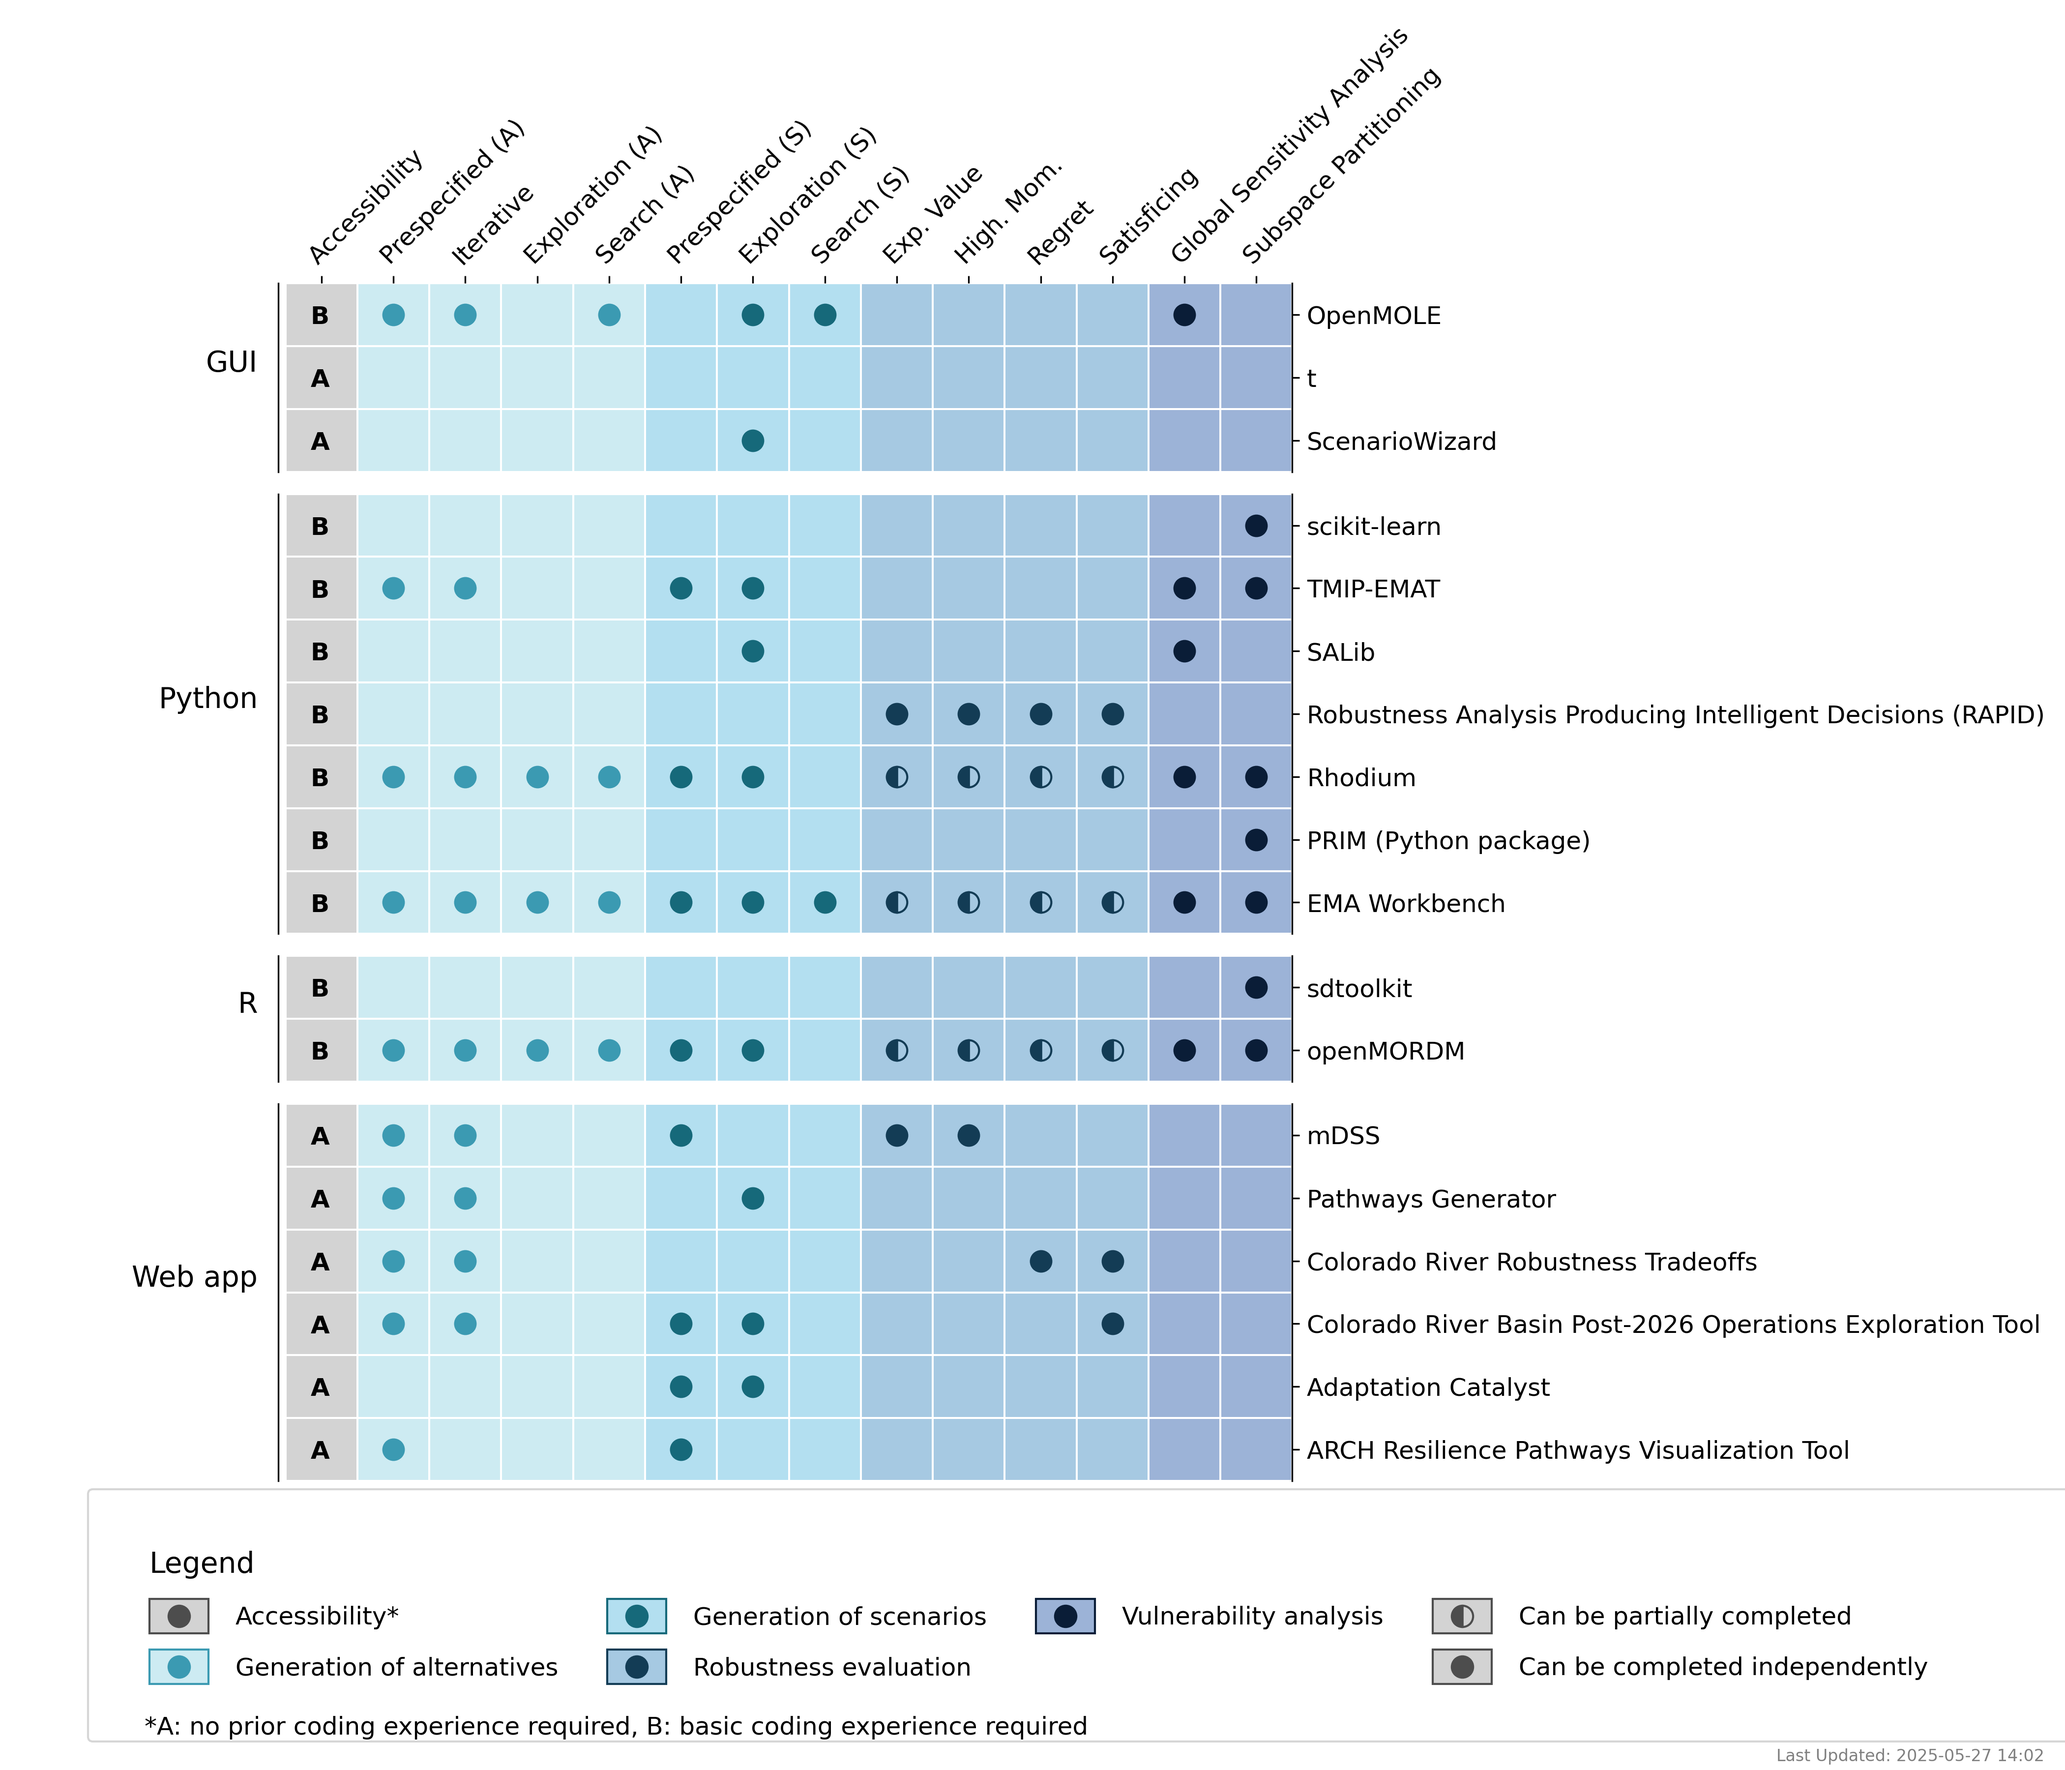
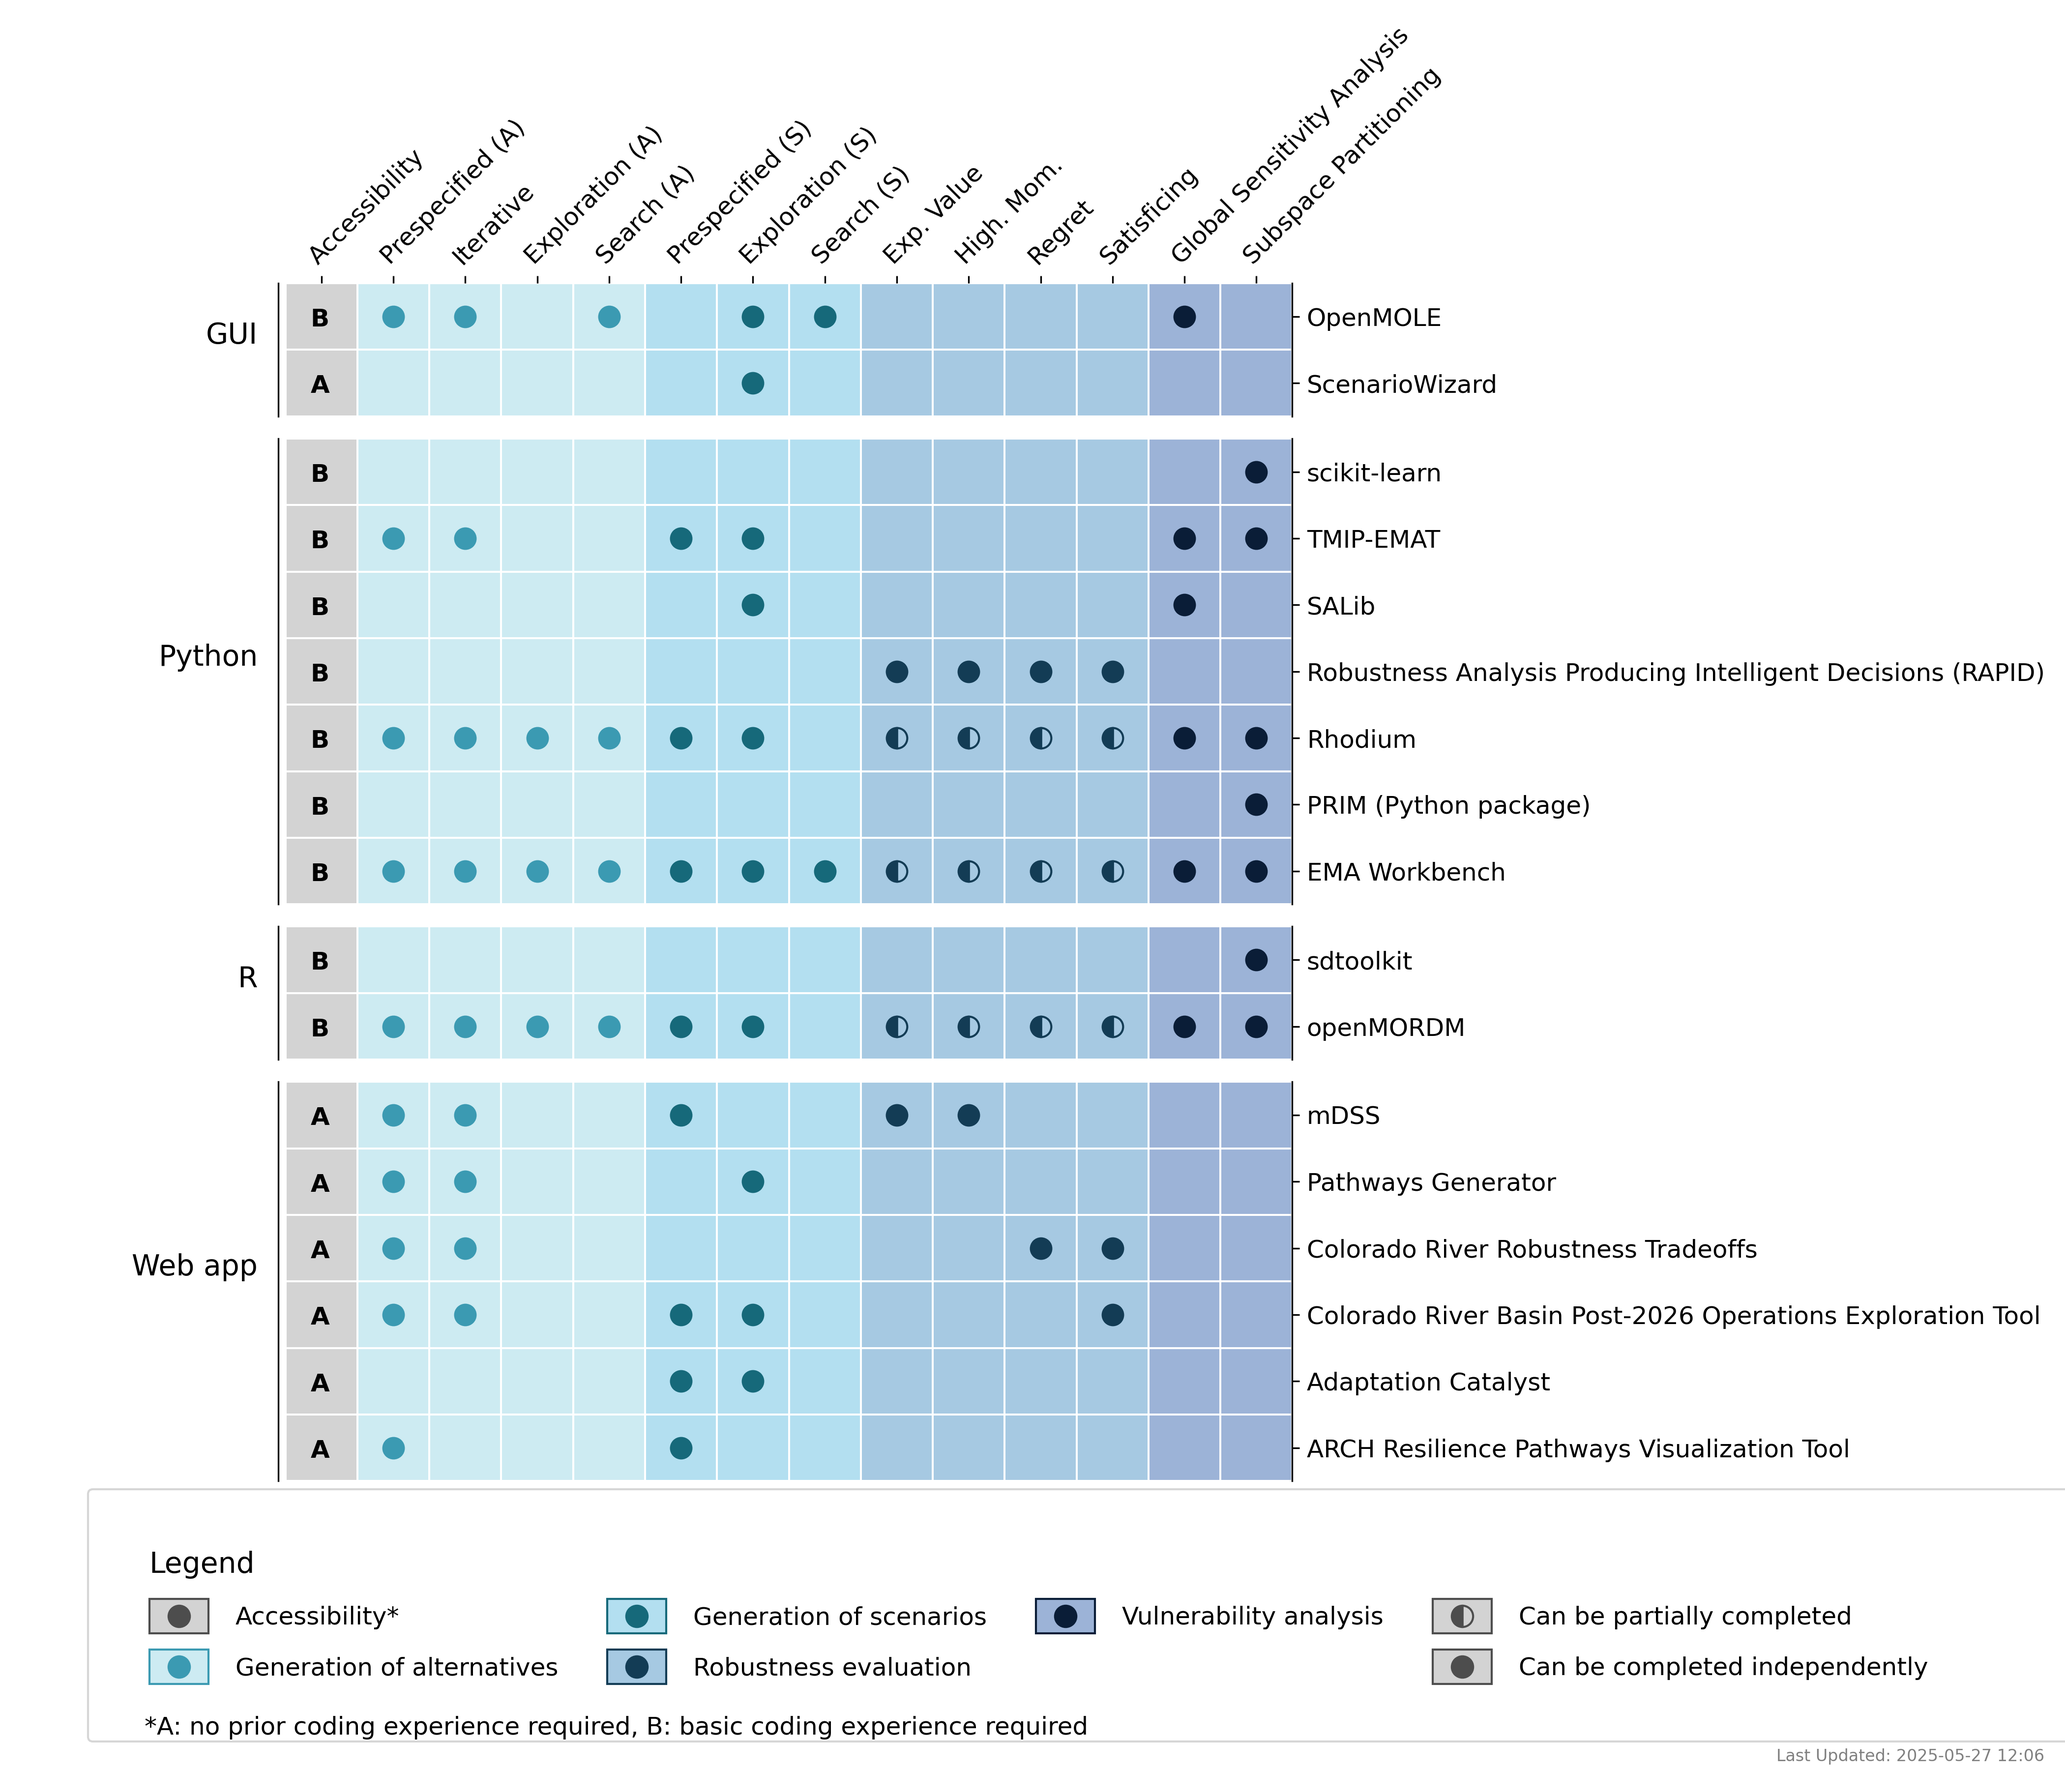
Auto-update from Google Sheet

diff --git a/outputs/table_tools.html b/outputs/table_tools.html
@@ -132,12 +132,6 @@
                 <td><a href="https://uncertainfutures.github.io/tools/sdtoolkit/" target="_blank">Link</a></td>
             </tr>
         
-            <tr>
-                <td>t</td>
-                <td>f</td>
-                <td><a href="t" target="_blank">Link</a></td>
-            </tr>
-        
         </tbody>
     </table>
     </body>
